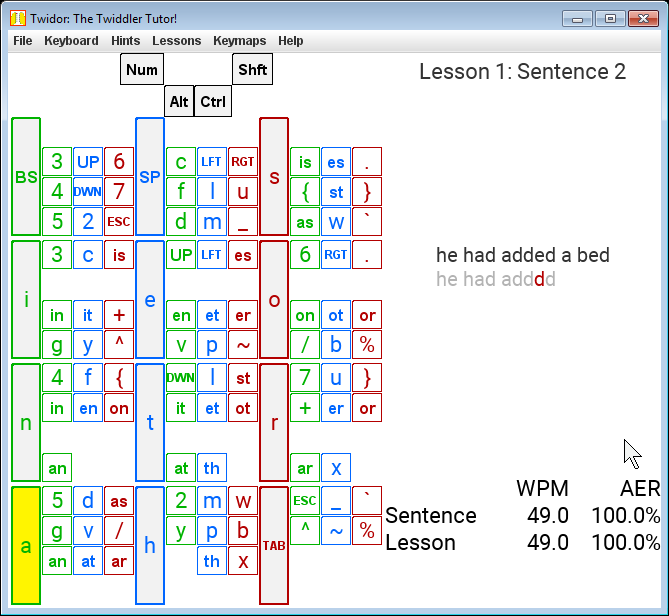
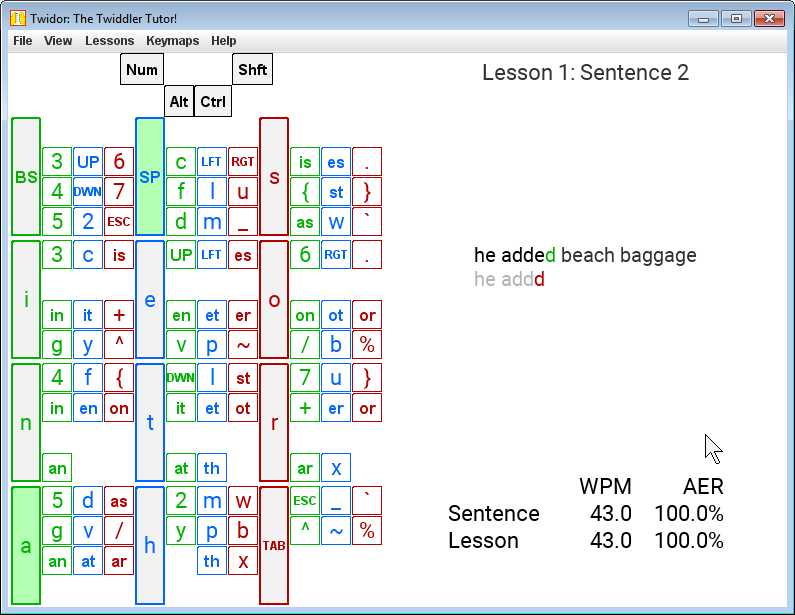
match highlight color of keyboard and text

diff --git a/src/TwidorConstants.java b/src/TwidorConstants.java
@@ -63,8 +63,8 @@ public interface TwidorConstants {
 	public static final int buttonX = (twiddlerX - 30) / 6;
 	public static final int buttonY = windowY * 2 / 15; // 2/3 of 1/4 of 4/5 of windowY
 	public static final Color buttonBackground = Color.getHSBColor(0.f, 0.f, 0.95f); // light gray
-	public static final Color buttonHighlight = Color.getHSBColor(0.16f, 1.0f, 1.0f); // light yellow
-	public static final Color mccHighlight = Color.getHSBColor(0.16f, 1.0f, 1.0f); // light yellow
+	public static final Color buttonHighlight = Color.getHSBColor(0.3333f, .3f, 1.0f); // light yellow
+	public static final Color mccHighlight = Color.getHSBColor(0.3333f, .3f, 1.0f); // light yellow
 	public static final Color twiddlerBackground = Color.getHSBColor(0.f, 0.f, 1.f); // dark grey
 
 	public static final Color keyRed    	= Color.getHSBColor(0.0000f, 1.f, .7f);
